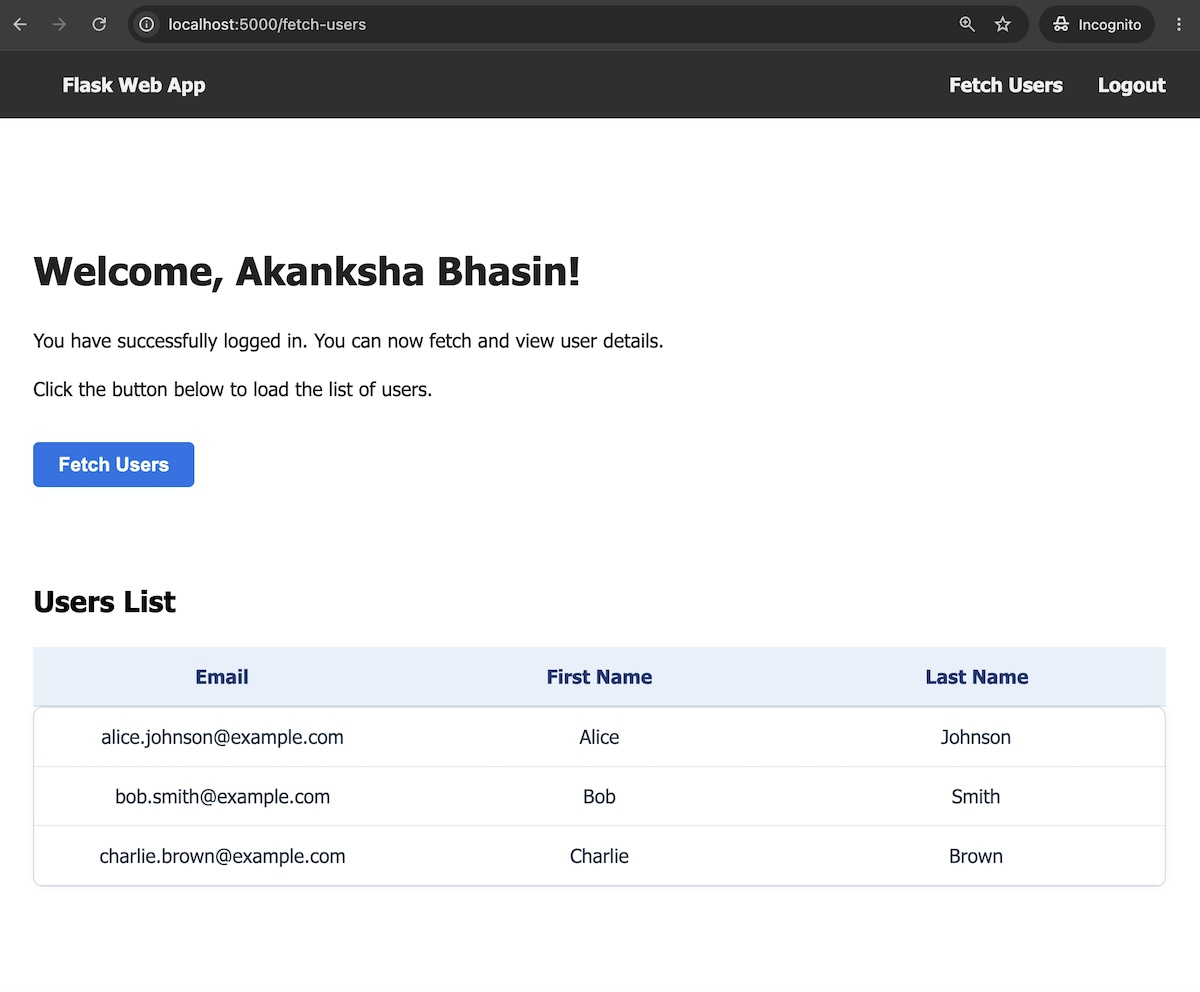
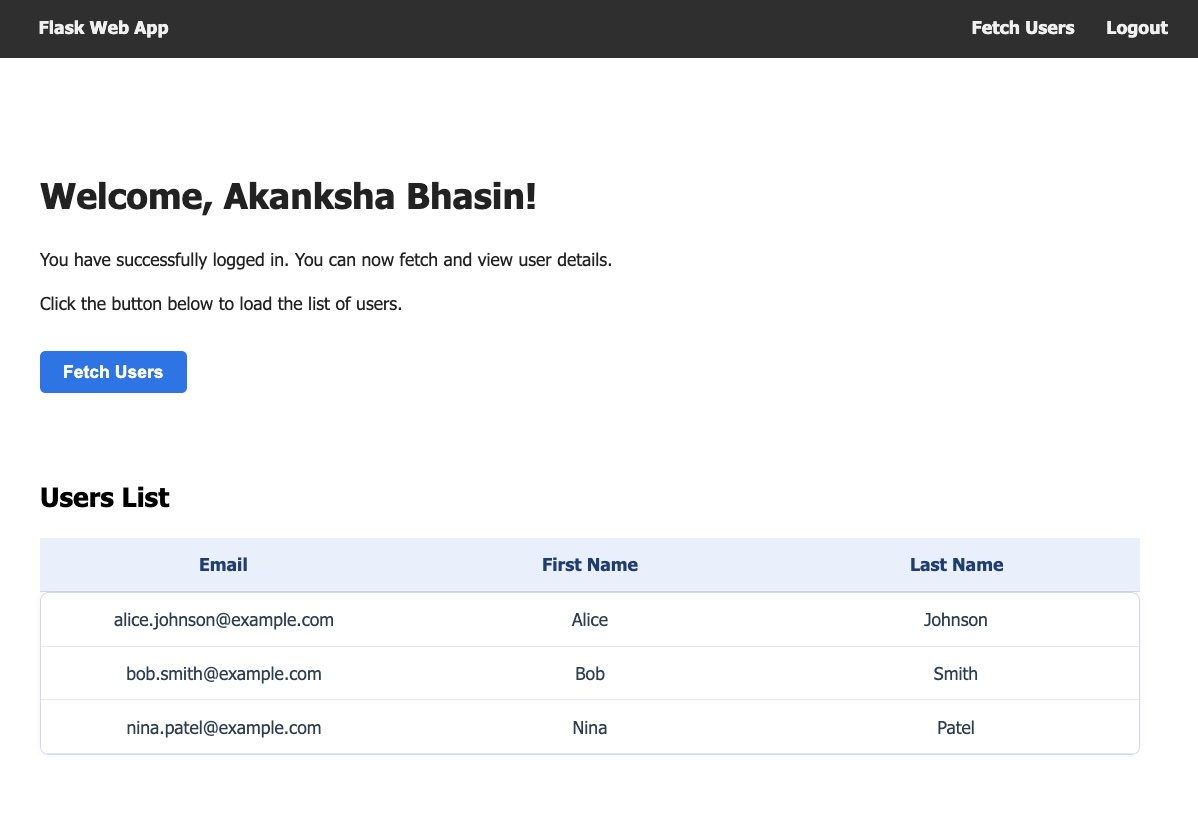
Fix content review issues and update fetch-users screenshot (#1691)

diff --git a/_source/_posts/2026-07-28-flask-oauth-web-app.md b/_source/_posts/2026-07-28-flask-oauth-web-app.md
@@ -11,9 +11,9 @@ image: blog/flask-oauth-web-app/flask-oauth-web-app-social-image.jpeg
 github: https://github.com/oktadev/okta-flask-oauth-example
 ---
 
-Python syntax and the flexibility of the Flask microframework make it a popular choice for quickly building web applications. While Flask provides the essentials to get you started, you'll need to tackle two critical pieces yourself: secure user authentication and authorized access to your backend services. After all, how do you securely sign users into your application? And once they're signed in, how does your app fetch data from a backend service that only serves authorized requests?
+Python syntax and the flexibility of the Flask microframework make it a popular choice for quickly building web applications. While Flask provides the essentials to get you started, you'll need to tackle two critical pieces yourself: secure user authentication and authorization for your backend services. After all, how do you securely sign users into your application? And once they're signed in, how does your app fetch data from a backend service that only serves authorized requests?
 
-This tutorial shows you how to solve both. You'll build a Flask dashboard app that signs users in with Okta using OpenID Connect (OIDC). Once signed in, the app uses the resulting OAuth 2.0 access token to call a separate backend API that only responds to authorized requests, a common pattern where a web app needs to fetch data from a protected backend service. You'll use Authlib, an OIDC client library, to configure the Authorization Code flow with PKCE automatically. You'll also learn how to add a custom scope to the access token and validate it on the backend to control what data the API returns.
+This tutorial shows you how to solve both. You'll build a Flask dashboard app that signs users in with Okta using OpenID Connect (OIDC). Once signed in, the app uses the resulting OAuth 2.0 access token to call a separate backend API that responds only to authorized requests. In this common pattern, a web app needs to fetch data from a protected backend service. You'll use Authlib, an OIDC client library, to configure the Authorization Code flow with Proof Key for Code Exchange (PKCE) automatically. You'll also learn how to add a custom scope to the access token and validate it on the backend to control what data the API returns.
 
 Check out the complete source code on [GitHub](https://github.com/oktadev/okta-flask-oauth-example) and get started without setting it up from scratch.
 
@@ -26,10 +26,10 @@ Check out the complete source code on [GitHub](https://github.com/oktadev/okta-f
 
 In this tutorial, you'll build a simple dashboard application and learn how to:
 
-* Securely sign users in to view their profile information using Okta as the OpenID Connect identity provider.  
-* Use Authlib to configure the Authorization Code flow with [PKCE](https://oauth.net/2/pkce/) automatically, following OAuth 2.1 security best practices.  
-* Add a feature for new users to self-register for an account directly from the sign-in page.  
-* Enable authenticated users to interact with a protected API using access tokens.
+* Securely sign users in to view their profile information using Okta as the OpenID Connect identity provider  
+* Use Authlib to configure the Authorization Code flow with [PKCE](https://oauth.net/2/pkce/) automatically, following OAuth 2.1 security best practices  
+* Add a feature for new users to self-register for an account directly from the sign-in page  
+* Enable authenticated users to interact with a protected API using access tokens
 
 **Prerequisites**
 
@@ -45,8 +45,8 @@ In this tutorial, you'll build a simple dashboard application and learn how to:
 
 User registration is vital for any application, and Okta makes the process quick and hassle-free. See [Self-Service Registration](https://help.okta.com/oie/en-us/content/topics/identity-engine/policies/about-ssr.htm) for an overview of how it works. Setting this up involves two main steps:
 
-1. Create a user profile policy \- This policy defines the attributes a user must provide when self-registering. See the [Okta documentation](https://help.okta.com/oie/en-us/content/topics/identity-engine/policies/create-profile-enrollment-policy.htm) for detailed instructions.  
-2. Assign your application to the policy \- This step is required; without it, the self-service registration flow will not activate for your app. See the [product documentation](https://help.okta.com/oie/en-us/content/topics/identity-engine/policies/select-profile-enrollment-policy.htm) for more details.
+1. Create a user profile policy – This policy defines the attributes a user must provide when self-registering. See the [Okta documentation](https://help.okta.com/oie/en-us/content/topics/identity-engine/policies/create-profile-enrollment-policy.htm) for detailed instructions.  
+2. Assign your application to the policy – This step is required; without it, the self-service registration flow doesn't activate for your app. See the [product documentation](https://help.okta.com/oie/en-us/content/topics/identity-engine/policies/select-profile-enrollment-policy.htm) for more details.
 
 ## Add secure user login to a Flask application with Okta
 
@@ -159,7 +159,7 @@ The sign-in process begins when the user clicks the Login button, which redirect
 
 After the user signs in, Okta redirects the browser to the configured sign-in redirect URI with an authorization code. Authlib then exchanges that code for tokens and automatically calls Okta's userinfo endpoint to retrieve the user's profile. Similarly, after a user signs out, Okta redirects the browser to the sign-out redirect URI.
 
-Let's start by creating a simple HTML page that allows the user to log in. This page will display a sign-in button for signed-out users and a sign-out button for logged-in users, along with profile information.
+Let's start by creating a simple HTML page that allows the user to log in. This page displays a sign-in button for signed-out users and a sign-out button for logged-in users, along with profile information.
 
 1. Add the `/login` route to your `app.py` file. This endpoint serves as the entry point for the authentication flow. It constructs the authorization redirect URI and sends the user's browser to the Okta-hosted Sign-In page to begin the OIDC process.
 
@@ -170,7 +170,7 @@ Let's start by creating a simple HTML page that allows the user to log in. This 
        return oauth.okta.authorize_redirect(redirect_uri)
    ```
 
-2. Next, implement the callback handler for the Redirect URI you configured in your Okta application (`http://localhost:5000/authorization-code/callback`). This handler processes the authorization code returned by Okta. Calling `authorize_access_token()` triggers Authlib to exchange the code for tokens and automatically call Okta's userinfo endpoint. Both the userinfo and the full token are then stored in Flask's session for use across requests.
+2. Next, implement the callback handler for the Redirect URI you configured in your Okta application (`http://localhost:5000/authorization-code/callback`). This handler processes the authorization code returned by Okta. Calling `authorize_access_token()` triggers Authlib to exchange the code for tokens and automatically call Okta's userinfo endpoint. The callback then stores both the userinfo and the full token in Flask's session for use across requests.
 
    ```python
    @app.route('/authorization-code/callback')
@@ -221,7 +221,7 @@ Let's start by creating a simple HTML page that allows the user to log in. This 
 
 With the back-end routes in place, you can now create the HTML template files to provide a user interface for signing in, signing out, and displaying profile data.
 
-Step 1: Create a `templates` directory in your project root. Inside it, create an `index.html` file. This page will display a Login button for signed-out users and, for signed-in users, profile information with a Logout button.
+Step 1: Create a `templates` directory in your project root. Inside it, create an `index.html` file. This page displays a Login button for signed-out users and, for signed-in users, profile information with a Logout button.
 
 {% raw %}
 ```html
@@ -261,7 +261,7 @@ Step 1: Create a `templates` directory in your project root. Inside it, create a
         <section aria-label="Login prompt" class="user-info">
           <h1>Welcome to the Flask Web App</h1>
           <p>If you are seeing this, you are not logged in yet.</p>
-          <p>This app uses OpenID Connect (OIDC) for secure login. After logging in, you will be able to access user-specific data.</p>
+          <p>This app uses OpenID Connect (OIDC) for secure login. After logging in, you can access user-specific data.</p>
           <p>Click the login button below to get started.</p>
           <a href="/login" class="button-link">Login / Register</a>
         </section>
@@ -374,12 +374,12 @@ flask --app resource-server.py run --port 5001
 ```
 
 * Open a browser and go to http://localhost:5000.  
-* Click Login. The browser redirects you to the Okta Sign-In Widget.  
+* Click **Login**. The browser redirects you to the Okta Sign-In Widget.  
 * After you sign in, Okta redirects you back to your application, and the page displays the signed-in user's details.  
 
 {% img blog/flask-oauth-web-app/flask-app-after-login.jpg alt:"Flask web app home page showing a welcome message after successful login with a Fetch Users button" width:"800" %}{: .center-image }
 
-* Click Logout. The browser clears your session and returns you to the home page.
+* Click **Logout**. The browser clears your session and returns you to the home page.
 
 You've successfully added a secure authentication flow to your Flask app. Next, you'll extend it to call a protected API using scoped tokens.
 
@@ -391,21 +391,21 @@ Every action on an endpoint that supports OAuth 2.0 requires a specific scope. I
 
 To include this scope in the tokens minted from Okta, follow these steps:
 
-* In your Okta Admin Console, navigate to **Security** \> **API**.  
+* In your Okta Admin Console, navigate to **Security** > **API**  
 * Select your **Authorization Server** and go to the **Scopes** tab  
-* Click the **Add Scope** button and enter `api:read-users` in the **Name** field.  
+* Click the **Add Scope** button and enter `api:read-users` in the **Name** field  
 * Optionally, enter the **Description** and the **Display Phrase**  
-* Click **Create**.
+* Click **Create**
 
-Now, when this scope is requested, Okta will include it in the tokens it issues.
+Now, when your app requests this scope, Okta includes it in the tokens it issues.
 
-Before creating the resource server, add an extra layer of security. You want your endpoint only to consume tokens intended for your server, preventing tokens issued for other services from being replayed or misused.
+Before creating the resource server, add an extra layer of security. You want your endpoint only to consume tokens intended for your server, preventing attackers from replaying or misusing tokens issued for other services.
 
 To do this, restrict the `aud` claim that Okta returns in the access token to your resource server. To achieve this:
 
-* In your Okta Admin Console, navigate to **Security** \> **API**.  
-* Select your **Authorization Server**. In the **Settings** tab, click **Edit**  
-* Change the **Audience** field to [http://localhost:5001](http://localhost:5001) — this is where your resource server will be hosted
+* In your Okta Admin Console, navigate to **Security** > **API**  
+* Select your **Authorization Server**. In the **Settings** tab, click **Edit**.  
+* Change the **Audience** field to [http://localhost:5001](http://localhost:5001) – this is where your resource server runs
 
 ### Build a protected users API
 
@@ -448,10 +448,10 @@ For this demo app, you'll create a minimal resource server with a single route c
        },
        {
            "id": 3,
-           "name": "Charlie Brown",
-           "firstName": "Charlie",
-           "lastName": "Brown",
-           "email": "charlie.brown@example.com"
+           "name": "Nina Patel",
+           "firstName": "Nina",
+           "lastName": "Patel",
+           "email": "nina.patel@example.com"
        }
    ]
    ```
@@ -531,7 +531,7 @@ For this demo app, you'll create a minimal resource server with a single route c
    print("Token is Valid!")
    ```
 
-   Once everything is done, your `verify_token` function should look like this:
+   Once everything is done, your `verify_token` function looks like this:
 
    ```python
    async def verify_token():
@@ -565,7 +565,7 @@ For this demo app, you'll create a minimal resource server with a single route c
 
 ### Extend the Flask app to interact with the resource server
 
-With the configuration in Okta complete, the next step is to update your Flask application to request this scope. This ensures that the access token issued to the user includes the necessary permission to call the protected endpoint.
+With the Okta configuration complete, the next step is to update your Flask application to request this scope. This ensures that the access token issued to the user includes the necessary permission to call the protected endpoint.
 
 1. In your `app.py` file, find the oauth.register block and add `api:read-users` to the scope string within the `client_kwargs` dictionary.
 
@@ -686,7 +686,7 @@ Step 1: Open the `templates/index.html` file and replace its entire contents wit
         <section aria-label="Login prompt" class="user-info">
           <h1>Welcome to the Flask Web App</h1>
           <p>If you are seeing this, you are not logged in yet.</p>
-          <p>This app uses OpenID Connect (OIDC) for secure login. After logging in, you will be able to access user-specific data.</p>
+          <p>This app uses OpenID Connect (OIDC) for secure login. After logging in, you can access user-specific data.</p>
           <p>Click the login button below to get started.</p>
           <a href="/login" class="button-link">Login / Register</a>
         </section>
@@ -698,7 +698,7 @@ Step 1: Open the `templates/index.html` file and replace its entire contents wit
 ```
 {% endraw %}
 
-Step 2: To style the new user table, open the `static/css/index.css` file and add the following CSS to the end of the file.
+Step 2: To style the new user table, open `static/css/index.css` file and add the following CSS at the end of the file.
 
 ```css
 .table-body-scroll {
@@ -741,7 +741,7 @@ Step 2: To style the new user table, open the `static/css/index.css` file and ad
 
 ### Test the protected API integration
 
-Ready to see it all work? Make sure both servers are running: the Flask app (`flask run`) and the resource server (`flask --app resource-server.py run --port 5001`). Open a browser, go to http://localhost:5000, sign in, and then click Fetch Users. A table should appear with a list of sample users returned from your resource server. If you see the user data, your integration is a success\!
+Ready to see it all work? Make sure both servers are running: the Flask app (`flask run`) and the resource server (`flask --app resource-server.py run --port 5001`). Open a browser, go to http://localhost:5000, sign in, and then click Fetch Users. A table appears, listing sample users returned from your resource server. If you see the user data, your integration is a success\!
 
 {% img blog/flask-oauth-web-app/flask-app-fetch-users.jpg alt:"Flask web app displaying a users table with email, first name, and last name columns after successfully fetching data from the protected API" width:"800" %}{: .center-image }
 
@@ -757,5 +757,5 @@ If you'd like to learn more about the concepts covered in this tutorial, explore
 * [Create an Authorization Server](/docs/guides/customize-authz-server/main/)  
 * [Secure a Node Express App with OAuth 2.0 and PKCE]({% post_url 2025-07-28-express-oauth-pkce %})
 
-Remember to follow us on [LinkedIn](https://www.linkedin.com/company/oktadev), [X](https://x.com/oktadev) and subscribe to our [YouTube channel](https://www.youtube.com/c/OktaDev/) for more exciting content. We also want to hear from you about the topics you'd like to see and any questions you may have. Leave us a comment below!
+Remember to follow us on [LinkedIn](https://www.linkedin.com/company/oktadev), [X](https://x.com/oktadev), and subscribe to our [YouTube channel](https://www.youtube.com/c/OktaDev/) for more exciting content. We also want to hear from you about the topics you'd like to see and any questions you may have. Leave us a comment below!
 
